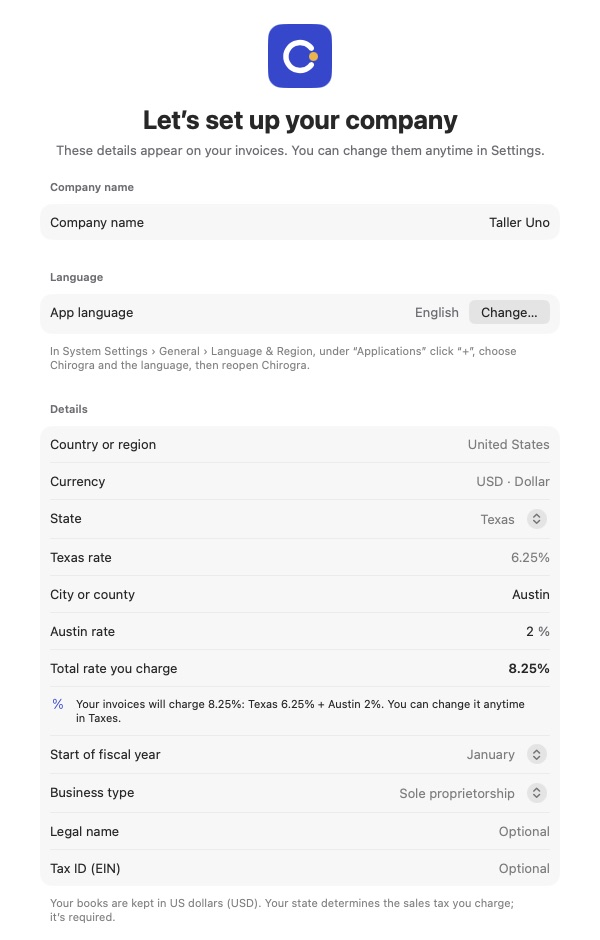
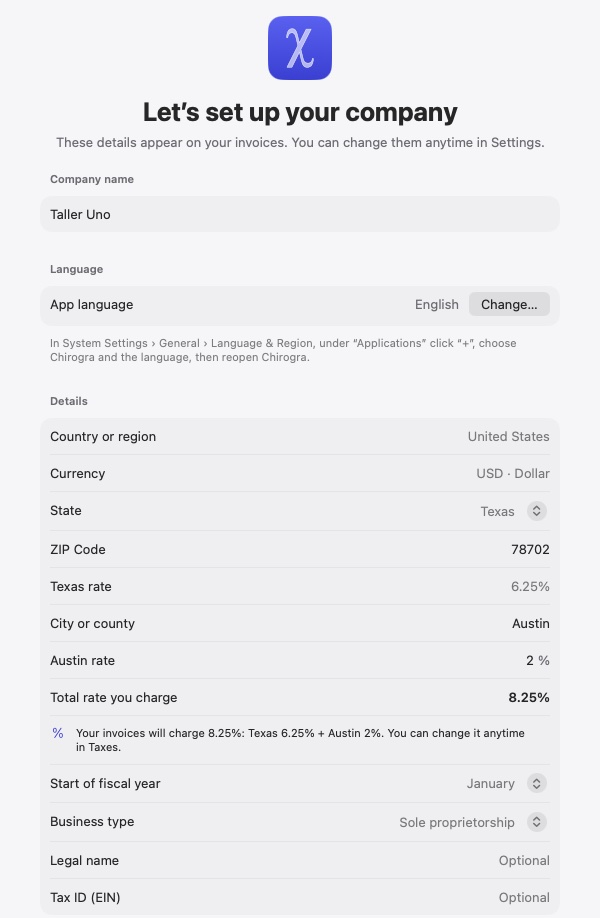
Guía: capturas del alta con el icono nuevo (la «C» antigua) y el código postal
Claude-Session: https://claude.ai/code/session_0185f7KfNP8eHAZ6R5Kk4do3

diff --git a/sitio/guide/index.html b/sitio/guide/index.html
@@ -92,7 +92,7 @@
   <h2 id="company">2. Set up your company</h2>
   <p>The first time you open Chirogra, it asks for your company details. They appear on your invoices, and you can change
   them anytime in Settings › Company profile.</p>
-  <figure class="hoja"><a href="../img/guia/bienvenida-en.jpg"><img src="../img/guia/bienvenida-en.jpg" alt="“Let’s set up your company” screen: company name, app language, the state of Texas with its 6.25% rate, the city of Austin with its 2% rate, a total rate of 8.25%, start of fiscal year, business type, legal name and tax ID" width="600" height="940" loading="lazy"></a></figure>
+  <figure class="hoja"><a href="../img/guia/bienvenida-en.jpg"><img src="../img/guia/bienvenida-en.jpg" alt="“Let’s set up your company” screen: company name, app language, the state of Texas, ZIP code 78702, the Texas rate of 6.25%, the city of Austin with its 2% rate, a total rate of 8.25%, start of fiscal year, business type, legal name and tax ID" width="600" height="918" loading="lazy"></a></figure>
   <ol>
     <li><strong>Company name</strong>. Below it, <strong>App language</strong> shows the language you’re using and, with
     <strong>Change…</strong>, where to change it.</li>

diff --git a/sitio/guia/index.html b/sitio/guia/index.html
@@ -90,7 +90,7 @@
   <h2 id="empresa">2. Crea tu empresa</h2>
   <p>La primera vez que abres Chirogra te pide los datos de tu empresa. Aparecen en tus facturas y puedes cambiarlos
   cuando quieras en Ajustes › Perfil de la empresa.</p>
-  <figure class="hoja"><a href="../img/guia/bienvenida-es.jpg"><img src="../img/guia/bienvenida-es.jpg" alt="Pantalla «Creemos tu empresa»: nombre, idioma de la app, estado Texas con su tasa de 6.25 %, ciudad Austin con su tasa de 2 %, tasa total de 8.25 %, inicio del año fiscal, tipo de empresa, razón social e ID fiscal" width="600" height="940" loading="lazy"></a></figure>
+  <figure class="hoja"><a href="../img/guia/bienvenida-es.jpg"><img src="../img/guia/bienvenida-es.jpg" alt="Pantalla «Creemos tu empresa»: nombre, idioma de la app, estado Texas, código postal 78702, la tasa de Texas de 6.25 %, ciudad Austin con su tasa de 2 %, tasa total de 8.25 %, inicio del año fiscal, tipo de empresa, razón social e ID fiscal" width="600" height="936" loading="lazy"></a></figure>
   <ol>
     <li><strong>Nombre de la empresa</strong>. Debajo, <strong>Idioma de la app</strong> te dice en qué idioma la ves y,
     con <strong>Cambiar…</strong>, dónde cambiarlo.</li>

diff --git a/docs/RESUMEN-PARA-SEGUIR.md b/docs/RESUMEN-PARA-SEGUIR.md
@@ -42,8 +42,8 @@ Lee esto primero y después [CONTEXTO.md](CONTEXTO.md), que tiene el detalle («
 - **Icono nuevo y build 41 (12-nov, noche):** el usuario trajo «chirogra greek inicials.icon» (la χ cursiva) y pidió
   ponerlo, cambiar también el logo de dentro y el de la web, subir el build 41, instalarlo en sus aparatos y empujar.
   Visto en una copia del Mac (bienvenida clara y oscura, animación en varias tomas, logo pequeño de la página 2).
-  **Pendiente:** las capturas de la guía `bienvenida-es/en.jpg` aún enseñan la «C» antigua (y `copias-es/en.jpg`, el
-  bloqueo dentro de iCloud). Worktrees `Chirogra-pestanas` (con la muestra sin commitear, ya en la rama) y
+  El 13-nov se rehicieron las capturas de la guía `bienvenida-es/en.jpg` (tenían la «C» antigua). **Pendiente:**
+  `copias-es/en.jpg` aún enseñan el bloqueo dentro de iCloud. Worktrees `Chirogra-pestanas` (con la muestra sin commitear, ya en la rama) y
   `Chirogra-QA-Hudson` (informe en `QA/`): preguntar antes de borrarlos.
 - **Build 40 (12-nov, noche):** el usuario preguntó si «iCloud» y «Seguridad» de Más estaban duplicados (sí: abrían
   la misma pantalla) y pidió **separarlas de verdad** y meter en el 40 los arreglos pequeños que quedaban de Hudson

diff --git a/docs/CONTEXTO.md b/docs/CONTEXTO.md
@@ -255,7 +255,7 @@ Instruments). Las capturas de la guía `copias-es/en.jpg` aún enseñan el bloqu
   `LogoMark` dibuja la misma χ dentro de la app con `ChiGlyph` (`DesignSystem/ChiGlyph.swift`, generado del `d` de
   `04-chi.svg`: si cambia el icono, regenerarlo). La bienvenida dibuja su contorno y luego la rellena. El de la web
   (`sitio/img/icono.png`, 256 px) sale del `AppIcon.icns` de la compilación del Mac (`iconutil -c iconset`,
-  `icon_128x128@2x.png`). Las capturas de la guía `bienvenida-es/en.jpg` aún enseñan la «C» antigua.
+  `icon_128x128@2x.png`). Capturas de la guía `bienvenida-es/en.jpg` rehechas con la χ el 13-nov.
 - Gastos y Banca arrancan en el último mes con movimientos; la tarjeta de Gastos suma solo gastos. Método de pago según
   la cuenta (banco → débito/transferencia/cheque; tarjeta → tarjeta; caja → efectivo).
 - **Editar algo contabilizado = reversión + asiento nuevo** (DISEÑO §6.5). Una factura emitida sin cobros se edita así
